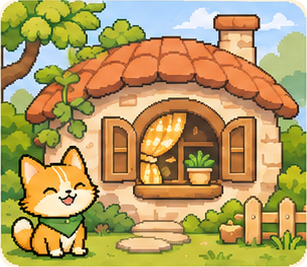
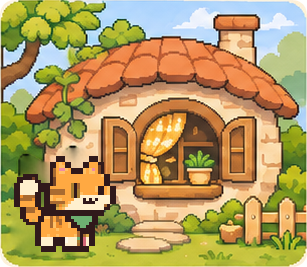
Keep original character sprites in the story thumbnails
The four story-collection thumbnails keep the mockup's houses and scenery,
but the mockup-drawn friends are replaced with the original 48x48 idle
sprites (integer scale, no smoothing); the world thumbnail seats all six
around the fire. README and the developer prompt now state that characters
always come from sprite_<id>_*, never from mockup drawings.

Claude-Session: https://claude.ai/code/session_015FKkdqthELbMosGZwzsTMF

Changed region(s): [[0.0293, 0.5393, 0.3811, 0.9888]]

diff --git a/docs/art/ui-screens/scripts/fix_thumbs.py b/docs/art/ui-screens/scripts/fix_thumbs.py
@@ -1,0 +1,54 @@
+"""Replace the mockup-drawn characters in the story thumbnails with the original 48x48 idle sprites.
+Houses and scenery stay as in the approved mockup."""
+import cv2, numpy as np, os, sys
+from PIL import Image
+sys.path.insert(0, os.path.dirname(os.path.abspath(__file__)))
+from lib import noise
+
+# (sprite id, character box in the thumbnail x0,y0,x1,y1, feet y, centre x, scale)
+JOBS = {
+    'mint':   [('mint',   (4, 138, 110, 248), 244, 60, 3)],
+    'cheese': [('cheese', (10, 148, 128, 258), 252, 68, 3)],
+    'popo':   [('popo',   (18, 146, 120, 252), 246, 68, 3)],
+    'world':  [('nunu',   (36, 66, 116, 146), 140, 76, 2),
+               ('lumi',   (128, 64, 222, 172), 166, 176, 2),
+               ('popo',   (210, 100, 282, 204), 198, 248, 2),
+               ('mint',   (10, 146, 110, 262), 256, 62, 3),
+               ('cheese', (90, 136, 172, 232), 226, 132, 3),
+               ('piko',   (218, 166, 296, 270), 264, 256, 3)],
+}
+
+def grab(img, box):
+    m = np.zeros(img.shape[:2], np.uint8)
+    bgd = np.zeros((1, 65), np.float64); fgd = np.zeros((1, 65), np.float64)
+    x0, y0, x1, y1 = box
+    cv2.grabCut(img, m, (x0, y0, x1 - x0, y1 - y0), bgd, fgd, 6, cv2.GC_INIT_WITH_RECT)
+    return np.where((m == cv2.GC_FGD) | (m == cv2.GC_PR_FGD), 255, 0).astype(np.uint8)
+
+for name, jobs in JOBS.items():
+    src = cv2.imread(f'parts_ai/story_thumb_{name}.png', cv2.IMREAD_UNCHANGED)
+    if src.shape[2] == 4 and os.path.exists(f'parts_ai/story_thumb_{name}.png'):
+        pass
+    img = src[:, :, :3].copy(); alpha = src[:, :, 3]
+    H, W = img.shape[:2]
+    mask = np.zeros((H, W), np.uint8)
+    for sid, box, foot, cx, sc in jobs:
+        mask = np.maximum(mask, grab(img, box))
+    mask = cv2.dilate(mask, np.ones((7, 7), np.uint8))
+    small = cv2.resize(img, None, fx=.5, fy=.5, interpolation=cv2.INTER_AREA)
+    ms = cv2.resize(mask, (small.shape[1], small.shape[0]), interpolation=cv2.INTER_NEAREST)
+    fill = cv2.resize(cv2.inpaint(small, ms, 7, cv2.INPAINT_TELEA), (W, H), interpolation=cv2.INTER_CUBIC).astype(np.float32)
+    fill += noise(H, W, 2.5)
+    a = cv2.GaussianBlur((mask > 0).astype(np.float32), (5, 5), 0)[..., None]
+    out = np.clip(img * (1 - a) + fill * a, 0, 255).astype(np.uint8)
+    cv2.imwrite(f'z_mask_{name}.png', np.hstack([img, cv2.cvtColor(mask, cv2.COLOR_GRAY2BGR), out]))
+    canvas = Image.fromarray(cv2.cvtColor(out, cv2.COLOR_BGR2RGB)).convert('RGBA')
+    for sid, box, foot, cx, sc in jobs:
+        s = Image.open(f'orig/sprite_{sid}_idle_0.png').convert('RGBA')
+        s = s.resize((48 * sc, 48 * sc), Image.NEAREST)
+        # sprite feet are at row 45 of 48, centre at x ~ 22
+        left = int(cx - 22 * sc); top = int(foot - 46 * sc)
+        canvas.alpha_composite(s, (left, top))
+    res = np.dstack([cv2.cvtColor(np.array(canvas.convert('RGB')), cv2.COLOR_RGB2BGR), alpha])
+    cv2.imwrite(f'out/parts/story_thumb_{name}.png', res)
+print('ok')

diff --git a/docs/art/ui-screens/scripts/fix_world.py b/docs/art/ui-screens/scripts/fix_world.py
@@ -1,0 +1,31 @@
+"""World thumbnail: remove the mockup's six characters (keep sky, trees, grass, campfire) and seat the six
+original idle sprites around the fire."""
+import cv2, numpy as np, os, sys
+from PIL import Image
+sys.path.insert(0, os.path.dirname(os.path.abspath(__file__)))
+from lib import rowfill, noise
+src = cv2.imread('parts_ai/story_thumb_world.png', cv2.IMREAD_UNCHANGED)
+img, alpha = src[:, :, :3].copy(), src[:, :, 3]
+H, W = img.shape[:2]
+m = np.zeros((H, W), np.uint8)
+for b in [(36, 64, 124, 152), (138, 60, 218, 178), (210, 98, 292, 208), (6, 148, 112, 268), (93, 138, 178, 244), (218, 166, 302, 270)]:
+    cv2.rectangle(m, b[:2], b[2:], 255, -1)
+fire = np.zeros_like(m); cv2.ellipse(fire, (186, 228), (42, 40), 0, 0, 360, 255, -1)
+m[fire > 0] = 0
+valid = alpha > 200
+out = rowfill(img, m, valid=valid, std=3.0)
+# soften the horizontal streaks a little, only inside the mask
+blur = cv2.GaussianBlur(out, (1, 9), 0)
+out[m > 0] = blur[m > 0]
+n = noise(H, W, 3.0)
+out = np.clip(out.astype(np.float32) + n * (m > 0)[..., None], 0, 255).astype(np.uint8)
+canvas = Image.fromarray(cv2.cvtColor(out, cv2.COLOR_BGR2RGB)).convert('RGBA')
+SEATS = [('nunu', 74, 150), ('lumi', 166, 174), ('popo', 252, 162),       # back, on the left/right of the fire
+         ('cheese', 126, 238), ('mint', 56, 266), ('piko', 266, 268)]     # front
+for sid, cx, foot in SEATS:
+    sc = 2 if sid in ('nunu', 'lumi', 'popo', 'cheese') else 3
+    s = Image.open(f'orig/sprite_{sid}_idle_0.png').convert('RGBA').resize((48 * sc, 48 * sc), Image.NEAREST)
+    canvas.alpha_composite(s, (int(cx - 22 * sc), int(foot - 46 * sc)))
+res = np.dstack([cv2.cvtColor(np.array(canvas.convert('RGB')), cv2.COLOR_RGB2BGR), alpha])
+cv2.imwrite('out/parts/story_thumb_world.png', res)
+cv2.imwrite('z_world.png', cv2.resize(np.hstack([img, res[:, :, :3]]), None, fx=1.5, fy=1.5, interpolation=cv2.INTER_NEAREST))

diff --git a/docs/art/ui-screens/README.md b/docs/art/ui-screens/README.md
@@ -48,6 +48,13 @@ fun place(v: View, x0: Int, y0: Int, x1: Int, y1: Int) {
 
 **이야기 모음** — 카드 4장은 모두 부품입니다. 카드 틀(`ui_story_card_frame`) 위에 리본 → 제목 글자 → 썸네일 → (본 이야기 알약) → 버튼 순서로 올립니다. 카드 뒤 배경은 무늬 없는 종이색과 벤치로 채웠습니다(카드가 덮는 자리). 상단 왼쪽 뒤로가기는 화살표만 남기고 글자를 지웠습니다.
 
+## 캐릭터는 항상 원본 (2026-11-12 A 확정)
+
+- 게임 속 캐릭터는 **원본 48×48 픽셀 스프라이트**(`res/drawable-nodpi/sprite_<id>_*.png`)만 씁니다. 시안이 다시 그린 캐릭터 모습은 쓰지 않습니다.
+- 이야기 모음 썸네일 4장(`parts/story_thumb_*`)은 **집·풍경은 시안 그대로 두고, 캐릭터만 원본 `sprite_<id>_idle_0`으로 바꿨습니다** (정수배 확대, 흐림 없음). 세계 이야기는 여섯 명을 모닥불 둘레에 다시 앉혔습니다.
+- 지금 앱의 이야기 카드(`SceneThumb`/`WorldThumb`)는 원본 집 배경 + 원본 스프라이트를 코드로 그립니다. 시안 썸네일로 바꾸더라도 **캐릭터를 다른 그림으로 바꾸지 마세요.**
+- 아직 남은 것: 메인 메뉴·로그인 배경에 있는 여섯 친구는 시안이 그린 모습입니다. 원본으로 바꿀지는 A가 정하면 같은 방식으로 교체합니다.
+
 ## 한계 (사실대로)
 
 - 시안 해상도가 1672×941이라 큰 화면에서는 살짝 부드럽게 확대됩니다. 더 선명한 원본이 생기면 같은 이름으로 교체하면 됩니다.

diff --git a/PROJECT_STATE.md b/PROJECT_STATE.md
@@ -764,3 +764,4 @@
 - 마을 이야기·이야기 모음·캐릭터 소개/선택/프로필·내 기록의 SceneryView를 공통 그림 bg_common_paper(이야기 모음 시안에서 제목 제거)로 교체하는 PaperBackdropView 추가. Page.show(paper=true) 인자 추가(기본 false). 오프닝·허브·다른 Page 화면은 그대로.
 - 검수: docs/art/ui-screens/BACKGROUND_UNIFY_REVIEW.md. 종이 위 글자 대비는 충분, 벤치 위 MUTED 글자는 2.3으로 낮음.
 - 빌드·기기 실행 미검증 (작업 환경에 Android SDK·local.properties 없음). B가 assembleDebug와 16:9/20:9 기기 확인 후 병합.
+- 후속(같은 날, A 확정): 캐릭터는 항상 원본 48×48 스프라이트. 이야기 모음 썸네일 4장은 집·풍경은 시안 유지, 캐릭터만 원본 sprite_<id>_idle_0으로 교체(세계 이야기는 6명 재배치). 메인 메뉴·로그인 배경의 시안 캐릭터는 아직 그대로(교체 여부 A 결정 대기). Git main에 원본 스프라이트·배경 원본이 그대로 있음을 확인.
